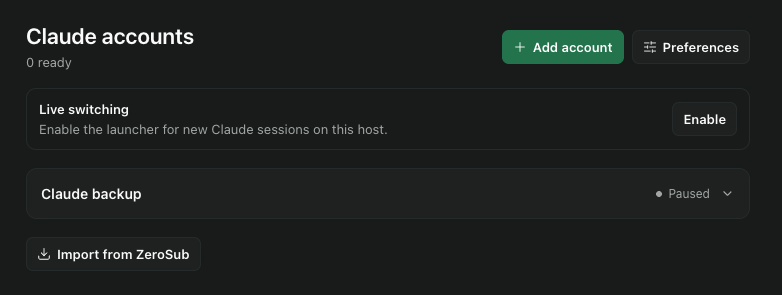
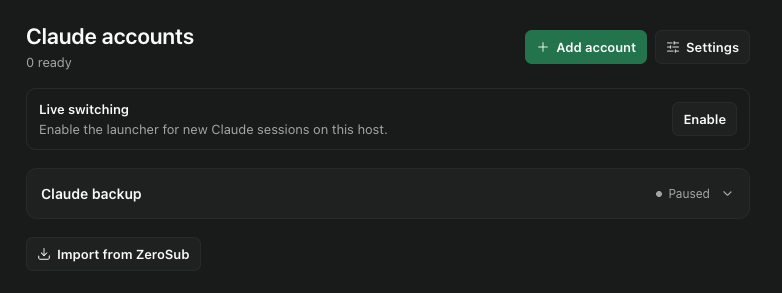
Keep routing settings on the Claude accounts page

diff --git a/client/account-screen.tsx b/client/account-screen.tsx
@@ -5,9 +5,10 @@ import { useRpc, useSettings, type PluginScreenProps } from "@getpaseo/plugin/cl
 import { Icon, SettingsCard, SettingsInput } from "@getpaseo/plugin/client/ui";
 import { editAccount, importAccounts, poolStatus, preferences, saveAccount, setupLive, useAccount } from "../shared/contracts";
 import { Action, Status, accountStatus } from "./design";
+import { PreferencesPanel } from "./preferences-panel";
 import { QuotaDetails } from "./quota";
 
-export function AccountScreen({ theme, params, layout, openPreferences }: PluginScreenProps & { openPreferences(): void }) {
+export function AccountScreen({ theme, params, layout }: PluginScreenProps) {
   const agentId = typeof params?.agentId === "string" ? params.agentId : undefined;
   const status = useRpc(poolStatus);
   const save = useRpc(saveAccount);
@@ -21,6 +22,7 @@ export function AccountScreen({ theme, params, layout, openPreferences }: Plugin
   const [remove, setRemove] = useState<string | null>(null);
   const [expanded, setExpanded] = useState<string | null>(null);
   const [busy, setBusy] = useState(false);
+  const [showSettings, setShowSettings] = useState(false);
   const [message, setMessage] = useState("");
   const colors = theme.colors;
   const accounts = pool.data?.accounts ?? [];
@@ -64,7 +66,7 @@ export function AccountScreen({ theme, params, layout, openPreferences }: Plugin
       await setup({});
       if (settings.status === "ready" && settings.values.accountPolicy === "off") {
         const saved = await settings.save({ ...settings.values, accountPolicy: "sticky" }, settings.revision);
-        if (!saved) throw new Error("Live switching is ready. Choose a routing policy in Preferences.");
+        if (!saved) throw new Error("Live switching is ready. Choose a routing policy in Settings.");
       }
     }, "Live switching is ready.");
   }
@@ -79,7 +81,8 @@ export function AccountScreen({ theme, params, layout, openPreferences }: Plugin
         </View>
         <View style={toolbar}>
           <Action theme={theme} label="Add account" icon="Plus" primary disabled={busy || !!draft} onPress={() => setDraft({ label: "", token: "" })} />
-          <Action theme={theme} label="Preferences" icon="SlidersHorizontal" onPress={openPreferences} />
+          <Action theme={theme} label="Settings" icon={showSettings ? "ChevronUp" : "SlidersHorizontal"} expanded={showSettings}
+            onPress={() => setShowSettings(!showSettings)} />
         </View>
       </View>
 
@@ -94,6 +97,12 @@ export function AccountScreen({ theme, params, layout, openPreferences }: Plugin
               : "Enable the launcher for new Claude sessions on this host."}</Text>
           </View>
           <Action theme={theme} label="Enable" disabled={busy || pool.data.blockedByZeroSub} onPress={enable} />
+        </View>
+      ) : null}
+      {showSettings ? (
+        <View style={{ padding: 14, borderRadius: 11, borderColor: colors.border, borderWidth: 1, gap: 14 }}>
+          <Text accessibilityRole="header" style={{ color: colors.foreground, fontSize: 15, fontWeight: "600" }}>Settings</Text>
+          <PreferencesPanel theme={theme} settings={settings} liveReady={pool.data?.liveReady ?? false} />
         </View>
       ) : null}
       {draft && !draft.id ? editor : null}

diff --git a/client/preferences-panel.tsx b/client/preferences-panel.tsx
@@ -1,8 +1,7 @@
-import { useQuery } from "@tanstack/react-query";
 import { Text, View } from "react-native";
-import { useRpc, useSettings, type PluginSurfaceProps } from "@getpaseo/plugin/client";
+import type { useSettings, PluginSurfaceProps } from "@getpaseo/plugin/client";
 import { SettingsAction, SettingsCard, SettingsSection, SettingsSelect } from "@getpaseo/plugin/client/ui";
-import { poolStatus, preferences, type Preferences } from "../shared/contracts";
+import type { preferences, Preferences } from "../shared/contracts";
 
 const routing = [
   { label: "Off", value: "off" },
@@ -15,10 +14,11 @@ const recovery = [
   { label: "Record only", value: "observe" },
 ] as const;
 
-export function PreferenceScreen({ theme }: PluginSurfaceProps) {
-  const settings = useSettings(preferences);
-  const status = useRpc(poolStatus);
-  const pool = useQuery({ queryKey: ["relayline-pool", null], queryFn: () => status({}) });
+export function PreferencesPanel({ theme, settings, liveReady }: {
+  theme: PluginSurfaceProps["theme"];
+  settings: ReturnType<typeof useSettings<typeof preferences.schema>>;
+  liveReady: boolean;
+}) {
   const muted = { color: theme.colors.foregroundMuted, fontSize: 13 };
   const change = <K extends keyof Preferences>(key: K, value: Preferences[K]) => {
     if (settings.status === "ready") void settings.save({ ...settings.values, [key]: value }, settings.revision);
@@ -33,11 +33,11 @@ export function PreferenceScreen({ theme }: PluginSurfaceProps) {
   }
   const { values, saving, saveError } = settings;
   return (
-    <View style={{ gap: 24 }}>
+    <View style={{ gap: 14 }}>
       <SettingsSection title="Account routing">
         <SettingsCard>
-          <SettingsSelect label="New Claude sessions" hint={pool.data?.liveReady ? "Choose how Relayline assigns a ready account." : "Enable live switching on the accounts page first."}
-            options={[...routing]} value={values.accountPolicy} disabled={saving || !pool.data?.liveReady}
+          <SettingsSelect label="New Claude sessions" hint={liveReady ? "Choose how Relayline assigns a ready account." : "Enable live switching on this host first."}
+            options={[...routing]} value={values.accountPolicy} disabled={saving || !liveReady}
             onValueChange={(value) => change("accountPolicy", value as Preferences["accountPolicy"])} />
         </SettingsCard>
       </SettingsSection>

diff --git a/index.client.tsx b/index.client.tsx
@@ -1,7 +1,6 @@
 import type { PluginClientContext, PluginSidebarItemProps } from "@getpaseo/plugin/client";
 import { SidebarRow } from "@getpaseo/plugin/client/ui";
 import { AccountScreen } from "./client/account-screen";
-import { PreferenceScreen } from "./client/preference-screen";
 import { contributePills } from "./client/pill";
 import { IncidentRow } from "./client/incident";
 import { incidentRow, incidentSchema, resume } from "./shared/contracts";
@@ -11,13 +10,7 @@ function RelaylineItem({ currentScreen, openScreen }: PluginSidebarItemProps) {
 }
 
 export default function contribute(client: PluginClientContext) {
-  const disposeSettings = client.addSettingsScreen({
-    id: "preferences", title: "Preferences", icon: "SlidersHorizontal", Component: PreferenceScreen,
-  });
-  const disposeScreen = client.addScreen({
-    id: "accounts", title: "Relayline",
-    Component: (props) => <AccountScreen {...props} openPreferences={() => client.openSettings("preferences")} />,
-  });
+  const disposeScreen = client.addScreen({ id: "accounts", title: "Relayline", Component: AccountScreen });
   const disposeSidebar = client.addSidebarHeaderItem({ id: "accounts", title: "Relayline", Component: RelaylineItem });
   const disposeCommand = client.addCommandCenterItem({
     id: "switch", title: "Relayline: Manage this agent’s Claude account", icon: "Repeat2", context: "agent",
@@ -36,6 +29,5 @@ export default function contribute(client: PluginClientContext) {
     disposeCommand();
     disposeSidebar();
     disposeScreen();
-    disposeSettings();
   };
 }

diff --git a/client/design.tsx b/client/design.tsx
@@ -20,7 +20,7 @@ export function accountStatus(account: Account, theme: PluginTheme) {
   }
 }
 
-export function Action({ theme, label, icon, onPress, disabled, primary, danger }: {
+export function Action({ theme, label, icon, onPress, disabled, primary, danger, expanded }: {
   theme: PluginTheme;
   label: string;
   icon?: string;
@@ -28,11 +28,12 @@ export function Action({ theme, label, icon, onPress, disabled, primary, danger 
   disabled?: boolean;
   primary?: boolean;
   danger?: boolean;
+  expanded?: boolean;
 }) {
   const colors = theme.colors;
   const ink = primary ? colors.accentForeground : danger ? colors.statusDanger : colors.foreground;
   return (
-    <Pressable accessibilityRole="button" disabled={disabled} onPress={onPress}
+    <Pressable accessibilityRole="button" accessibilityState={{ expanded, disabled }} disabled={disabled} onPress={onPress}
       style={({ pressed }) => ({
         flexDirection: "row", alignItems: "center", justifyContent: "center", gap: 6,
         minHeight: 34, paddingHorizontal: 10, borderRadius: 7, opacity: disabled ? 0.45 : 1,

diff --git a/README.md b/README.md
@@ -7,7 +7,7 @@ Relayline keeps Claude accounts ready and switches a managed Claude Code process
 Requires Paseo 0.16.1 or newer. Claude account switching also requires Claude Code and Python 3 on a macOS or Linux Paseo host.
 
 ```sh
-paseo plugin install git:nguyenvanduocit/paseo-relayline --ref v1.2.0
+paseo plugin install git:nguyenvanduocit/paseo-relayline --ref v1.2.1
 ```
 
 1. Open **Relayline** in the sidebar. Add a Claude OAuth setup token, or choose **Import from ZeroSub** to copy compatible Claude accounts from ZeroSub on the same host.
@@ -19,7 +19,7 @@ Generate a token through Claude Code's `claude setup-token` sign-in flow. Paste 
 ## Accounts and recovery
 
 - A periodic check verifies each active token against Anthropic. **Replace token** indicates Anthropic refused it. **Check unavailable** indicates a failed probe or a response Relayline could not classify.
-- In **Preferences**, **Reuse last working account** keeps new sessions on the last selected eligible account. **Spread new sessions** prefers the account managing fewer live sessions. **Park** takes an account out of automatic selection.
+- In **Settings** on the accounts page, **Reuse last working account** keeps new sessions on the last selected eligible account. **Spread new sessions** prefers the account managing fewer live sessions. **Pause** takes an account out of automatic selection.
 - In Claude chat, the **Claude account** pill opens an account picker with the active account, verified alternatives and any readable plan quota. You can also open the account screen from the Command Center. Switching takes effect on the next model request. A request already in progress keeps its original credential.
 - For transient provider failures, Relayline can offer a continuation in the timeline. **Continue automatically when safe** adds one delayed follow-up only when the turn shows one prompt, no tool calls and no partial response. Choose **Record only** to keep diagnostics without continuation. Account failover remains governed by the account policy.
 - Relayline shows the percentage remaining and reset time for each quota window Anthropic returns. Inference-scoped setup tokens can be valid while quota access is restricted. In that case, the pill can show input and output tokens reported by the session, which measure usage and do not estimate subscription headroom. An account that reaches a recognized limit still cools down for 30 minutes.

diff --git a/OVERVIEW.md b/OVERVIEW.md
@@ -2,6 +2,6 @@ Relayline manages a pool of Claude accounts for Paseo. It checks setup tokens, s
 
 Add tokens from Claude Code or import compatible local ZeroSub accounts. Live switching requires Paseo 0.16.1 or newer, Claude Code, and Python 3 on macOS or Linux. The Enable action sets the Claude launcher on that host. Account folders stay in place.
 
-Switch directly from the Claude account pill in chat and see remaining quota where Anthropic exposes it. Open Preferences to choose the last working account, spread new sessions across the pool, or park an account. Continuation can be offered as an action, scheduled once when the latest turn shows no partial work, or kept off. For tokens without quota access, the pill shows session token usage when available. Provider failure notices still trigger account failover.
+Switch directly from the Claude account pill in chat and see remaining quota where Anthropic exposes it. Open Settings on the accounts page to choose the last working account or spread new sessions across the pool. Pause an account to take it out of rotation. Continuation can be offered as an action, scheduled once when the latest turn shows no partial work, or kept off. For tokens without quota access, the pill shows session token usage when available. Provider failure notices still trigger account failover.
 
 Token records are stored on the Paseo host. Relayline sends a bearer to Anthropic to verify authentication and check quota and passes it to the local Claude Code process. The client receives account status and labels. To diagnose a failure, the plugin reads the latest turn and, when configured, sends a fixed continuation prompt to that agent's provider.
